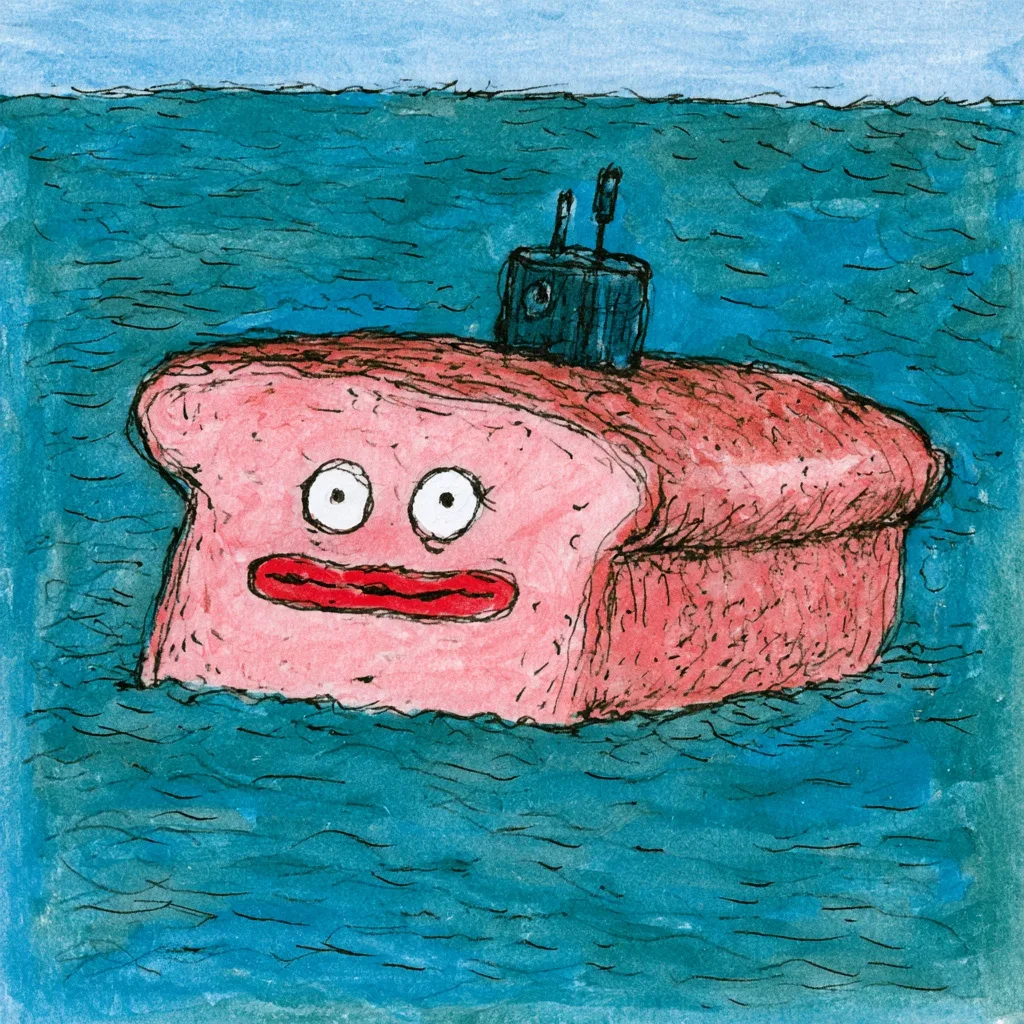
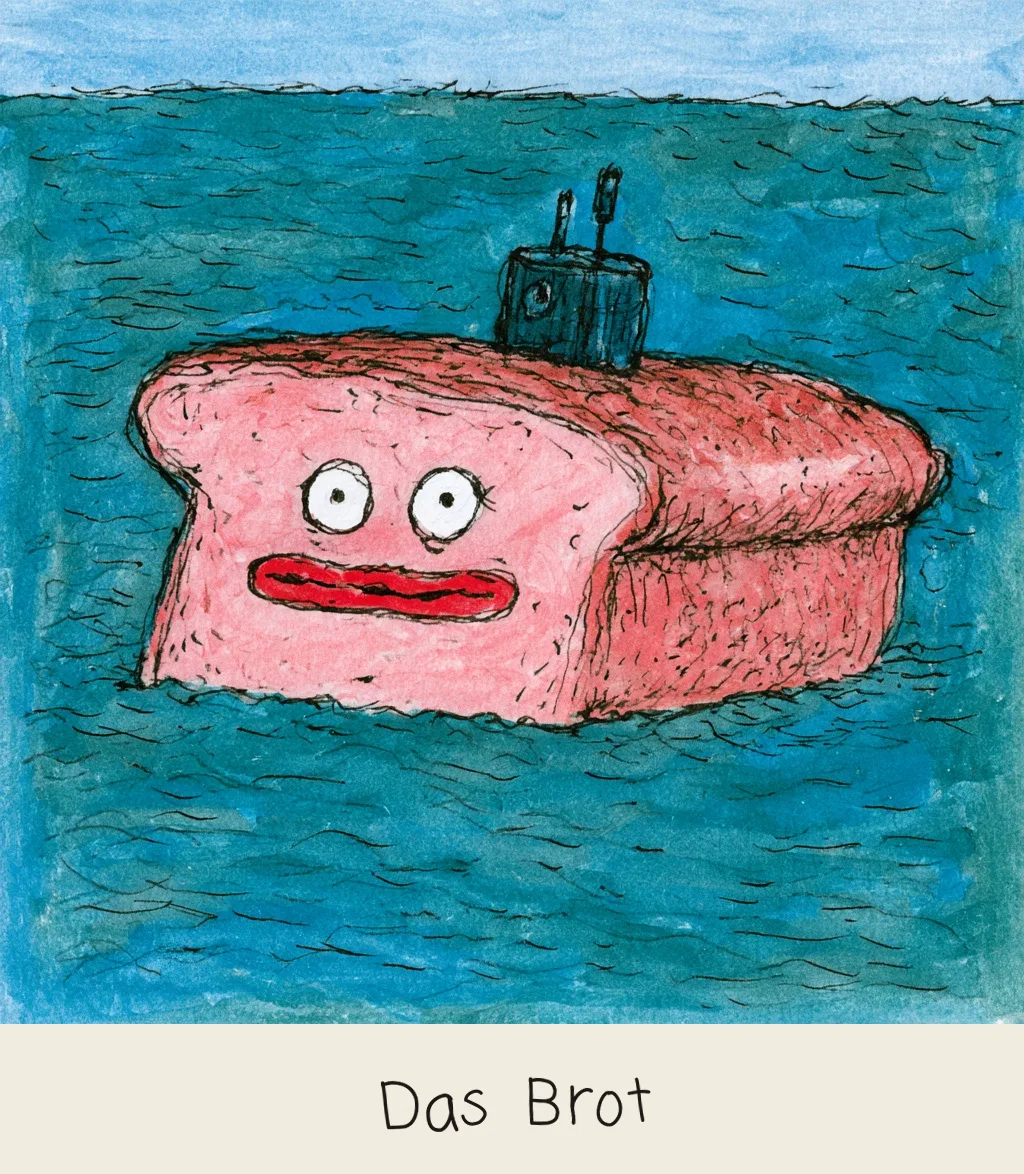
feat: Das Brot met handgeschreven onderschrift

diff --git a/docs/curiosa/index.html b/docs/curiosa/index.html
@@ -93,9 +93,8 @@
     </section>
 
     <section class="verhaal">
-      <h2>Das Brot</h2>
-      <img src="media/das-brot.webp" width="1024" height="1024" loading="lazy"
-           alt="Een brood met grote ogen en rode lippen drijft in zee, met een duikbootkoepel en twee periscopen op zijn korst.">
+      <img src="media/das-brot.webp" width="1024" height="1174" loading="lazy"
+           alt="Das Brot. Een brood met grote ogen en rode lippen drijft in zee, met een duikbootkoepel en twee periscopen op zijn korst.">
     </section>
   </main>
 
